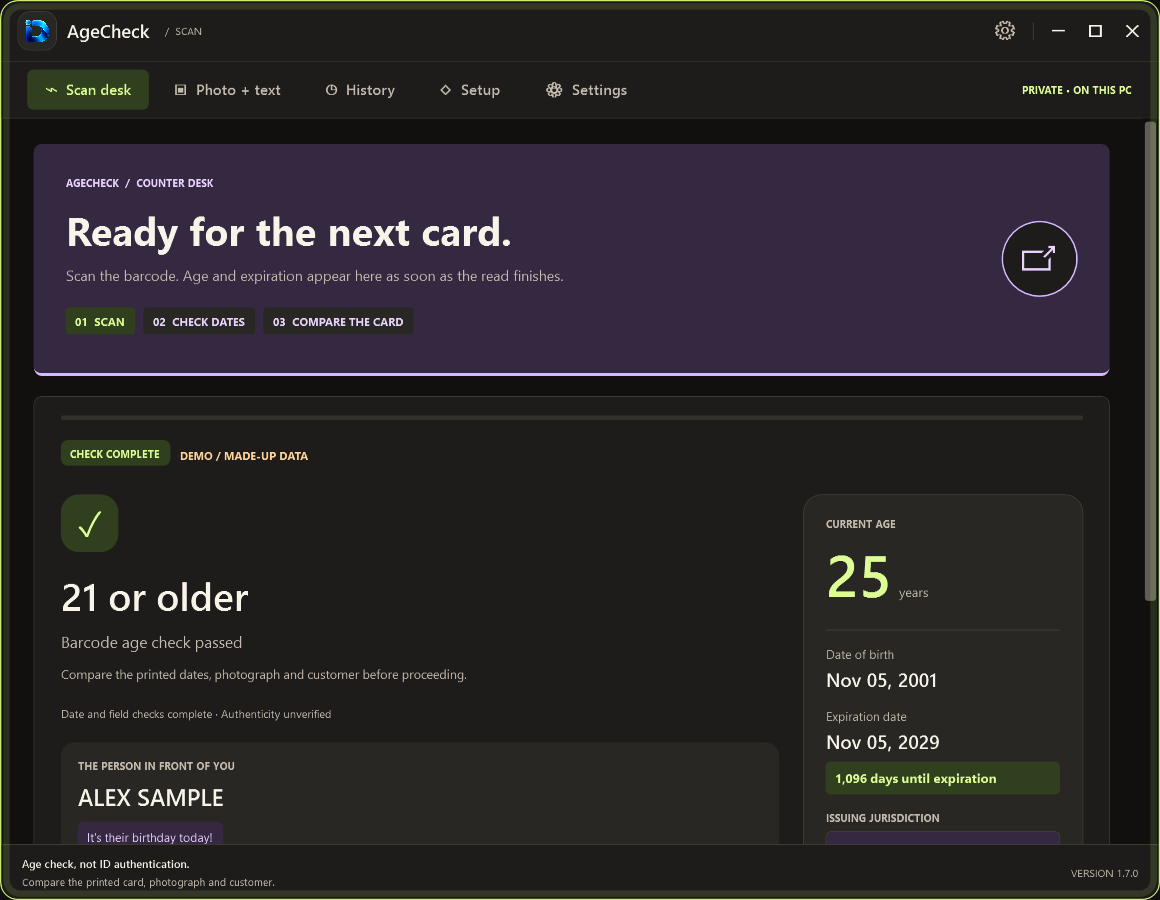
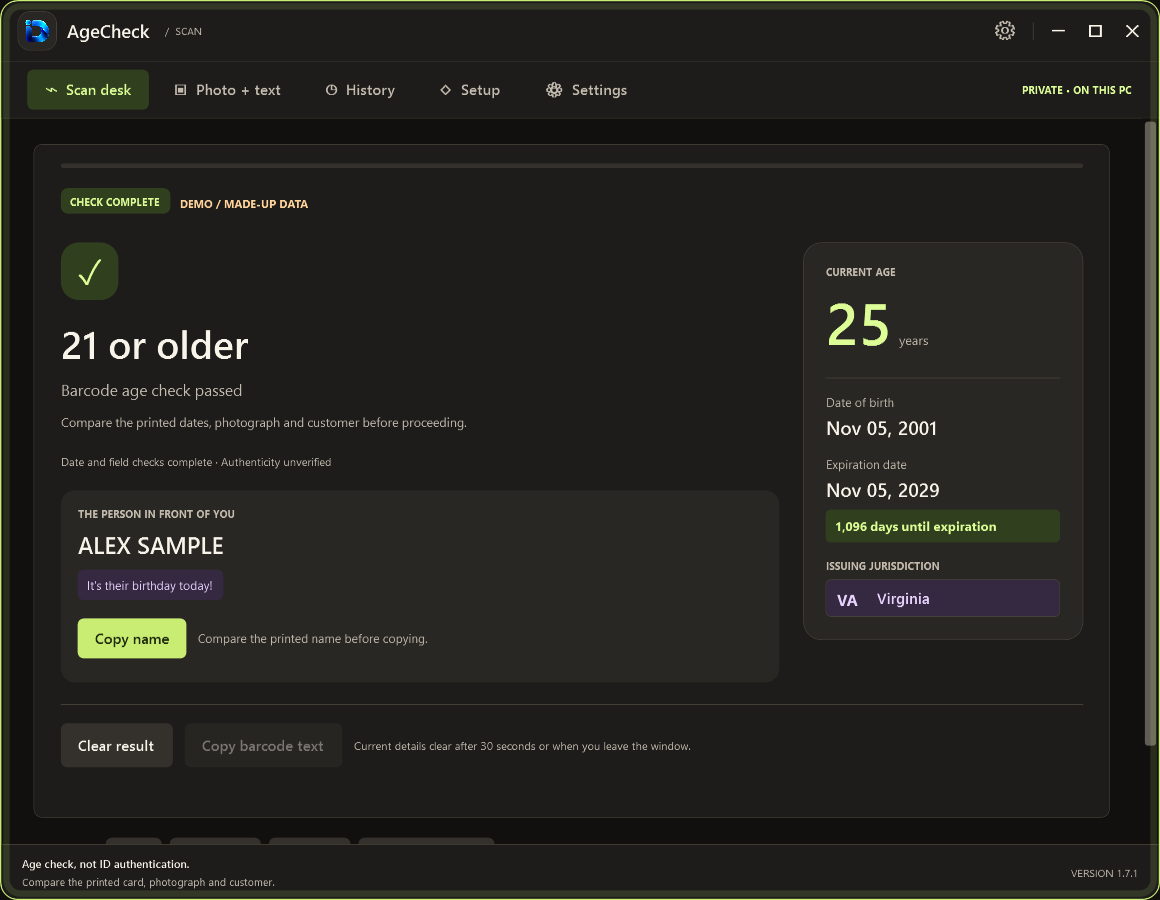
Restore scan focus after Home and add directional tabs

diff --git a/src/AgeCheck/MainWindow.xaml b/src/AgeCheck/MainWindow.xaml
@@ -30,7 +30,6 @@
     <Border x:Name="TopNavigation" Grid.Row="0" Grid.ColumnSpan="2" Background="{DynamicResource Surface}" BorderBrush="{DynamicResource Line}" BorderThickness="0,0,0,1" Padding="26,8"><DockPanel LastChildFill="False"><StackPanel Orientation="Horizontal" DockPanel.Dock="Left"><Button x:Name="TopScan" Click="ScanPage_Click" Content="⌁  Scan desk" Margin="0,0,8,0" Padding="18,10"/><Button x:Name="TopImage" Click="ImagePage_Click" Content="▣  Photo + text" Margin="0,0,8,0" Padding="18,10"/><Button x:Name="TopHistory" Click="HistoryPage_Click" Content="◷  History" Margin="0,0,8,0" Padding="18,10"/><Button x:Name="TopSetup" Click="SetupPage_Click" Content="◇  Setup" Margin="0,0,8,0" Padding="18,10"/><Button x:Name="TopSettings" Click="SettingsPage_Click" Content="⚙  Settings" Padding="18,10"/></StackPanel><TextBlock Text="PRIVATE • ON THIS PC" FontSize="10" FontWeight="Bold" Foreground="{DynamicResource AccentText}" VerticalAlignment="Center" HorizontalAlignment="Right" DockPanel.Dock="Right"/></DockPanel></Border>
     <ScrollViewer x:Name="PageScroll" Grid.Row="1" Grid.ColumnSpan="2" VerticalScrollBarVisibility="Auto" HorizontalScrollBarVisibility="Disabled" CanContentScroll="False"><Grid x:Name="PageHost" Margin="32,26" MaxWidth="1120" HorizontalAlignment="Stretch">
      <StackPanel x:Name="ScanPage">
-      <Border x:Name="ScanHero" Background="{DynamicResource BrandSoft}" CornerRadius="8" BorderBrush="{DynamicResource Brand}" BorderThickness="0,0,0,3" Padding="32" Margin="0,0,0,20"><Grid><Grid.ColumnDefinitions><ColumnDefinition Width="*"/><ColumnDefinition Width="Auto"/></Grid.ColumnDefinitions><StackPanel><TextBlock Text="AGECHECK  /  COUNTER DESK" FontSize="10" FontWeight="Bold" Foreground="{DynamicResource BrandText}"/><TextBlock Text="Ready for the next card." FontSize="39" FontWeight="Bold" Margin="0,14,0,8"/><TextBlock Text="Scan the barcode. Age and expiration appear here as soon as the read finishes." Style="{StaticResource Caption}" FontSize="14"/><WrapPanel Margin="0,22,0,0"><Border Background="{DynamicResource AccentSoft}" CornerRadius="4" Padding="10,6" Margin="0,0,8,6"><TextBlock Text="01  SCAN" Foreground="{DynamicResource AccentText}" FontWeight="Bold" FontSize="11"/></Border><Border Background="{DynamicResource Inset}" CornerRadius="4" Padding="10,6" Margin="0,0,8,6"><TextBlock Text="02  CHECK DATES" Foreground="{DynamicResource BrandText}" FontWeight="Bold" FontSize="11"/></Border><Border Background="{DynamicResource Inset}" CornerRadius="4" Padding="10,6" Margin="0,0,0,6"><TextBlock Text="03  COMPARE THE CARD" Foreground="{DynamicResource BrandText}" FontWeight="Bold" FontSize="11"/></Border></WrapPanel></StackPanel><Border Grid.Column="1" Width="76" Height="76" CornerRadius="38" Background="{DynamicResource Surface}" BorderBrush="{DynamicResource Brand}" BorderThickness="2" Margin="18,0,0,0" VerticalAlignment="Center"><TextBlock Text="&#xE8A7;" FontFamily="Segoe MDL2 Assets" FontSize="35" Foreground="{DynamicResource BrandText}" HorizontalAlignment="Center" VerticalAlignment="Center"/></Border></Grid></Border>
       <Border x:Name="ResultCard" Style="{StaticResource Card}"><StackPanel>
        <Grid Height="5" Margin="0,-8,0,20" ClipToBounds="True"><Border Background="{DynamicResource Quiet}" CornerRadius="3"/><Border x:Name="ScanBeam" Width="150" Background="{DynamicResource Accent}" HorizontalAlignment="Left" CornerRadius="3" Visibility="Collapsed"/></Grid>
        <WrapPanel Margin="0,0,0,24"><Border Background="{DynamicResource AccentSoft}" CornerRadius="7" Padding="10,6" Margin="0,0,10,5"><TextBlock x:Name="Phase" Text="READY TO SCAN" Foreground="{DynamicResource AccentText}" FontSize="10" FontWeight="Bold"/></Border><TextBlock x:Name="DemoBadge" Text="DEMO / MADE-UP DATA" Foreground="{DynamicResource WarmInk}" FontWeight="Bold" FontSize="11" Visibility="Collapsed" VerticalAlignment="Center"/></WrapPanel>

diff --git a/src/AgeCheck/MainWindow.xaml.cs b/src/AgeCheck/MainWindow.xaml.cs
@@ -113,7 +113,7 @@ public partial class MainWindow : Window
             if (args.Contains("--image-test")) { await ImageSelfTest(); return; }
             if (args.Contains("--screenshot")) { suppressAnimations = true; await ExportScreenshots(); return; }
             if (args.Contains("--motion-test")) { await MotionTest(); return; }
-            Animate(PageHost, true); Animate(BrandMark, true); Animate(ScanHero, true);
+            Animate(PageHost, true); Animate(BrandMark, true); Animate(ResultCard, true);
             if (StartupChecks.IsChecked == true) await CheckUpdates();
         };
     }
@@ -247,24 +247,24 @@ public partial class MainWindow : Window
         UpdateStateBadge(result.IssuingState);
         Animate(ResultCard); privacy.Stop(); privacy.Start();
     }
-    private void Animate(UIElement element, bool opening = false)
+    private void Animate(UIElement element, bool opening = false, int pageDirection = 0)
     {
         element.BeginAnimation(OpacityProperty, null);
         StopTransform(element.RenderTransform);
         element.Opacity = 1;
         element.RenderTransform = Transform.Identity;
         if (suppressAnimations || !motionEnabled || !SystemParameters.ClientAreaAnimation) return;
-        var duration = TimeSpan.FromMilliseconds(opening ? 520 : 340);
+        var duration = TimeSpan.FromMilliseconds(opening ? 520 : pageDirection == 0 ? 340 : 280);
         var easing = new QuarticEase { EasingMode = EasingMode.EaseOut };
         var move = new TranslateTransform(); var scale = new ScaleTransform(1,1);
         var transforms = new TransformGroup(); transforms.Children.Add(scale); transforms.Children.Add(move);
         element.RenderTransformOrigin = new Point(.5,.4); element.RenderTransform=transforms;
         DoubleAnimation Tween(double from,double to)=>new(from,to,duration){EasingFunction=easing,FillBehavior=FillBehavior.Stop};
         element.BeginAnimation(OpacityProperty,Tween(opening?0:.15,1));
-        move.BeginAnimation(TranslateTransform.XProperty,Tween(opening?0:20,0));
-        move.BeginAnimation(TranslateTransform.YProperty,Tween(opening?20:5,0));
-        scale.BeginAnimation(ScaleTransform.ScaleXProperty,Tween(opening ? .975 : .985,1));
-        scale.BeginAnimation(ScaleTransform.ScaleYProperty,Tween(opening ? .975 : .985,1));
+        move.BeginAnimation(TranslateTransform.XProperty,Tween(pageDirection == 0 ? (opening ? 0 : 20) : pageDirection * 48,0));
+        move.BeginAnimation(TranslateTransform.YProperty,Tween(pageDirection == 0 ? (opening ? 20 : 5) : 0,0));
+        scale.BeginAnimation(ScaleTransform.ScaleXProperty,Tween(pageDirection == 0 ? (opening ? .975 : .985) : 1,1));
+        scale.BeginAnimation(ScaleTransform.ScaleYProperty,Tween(pageDirection == 0 ? (opening ? .975 : .985) : 1,1));
     }
     private static void StopTransform(Transform transform)
     {
@@ -275,15 +275,26 @@ public partial class MainWindow : Window
     private void Page(UIElement page)
     {
         if (page == UpdatesPage) page = SettingsPage;
+        int previousIndex = PageIndex(activePage);
+        int nextIndex = PageIndex(page);
         CloseDrawer();
         Clear(); ScanPage.Visibility = ImagePage.Visibility = SetupPage.Visibility = SettingsPage.Visibility = HistoryPage.Visibility = Visibility.Collapsed;
         if (page != ImagePage) BarcodeTextInput.Clear();
         activePage = page;
-        page.Visibility = Visibility.Visible; Animate(page);
+        page.Visibility = Visibility.Visible; Animate(page, pageDirection: Math.Sign(nextIndex - previousIndex));
         if (page == HistoryPage) RefreshCustomers();
         PaintNavigation();
         PageScroll.ScrollToTop();
+        // Navigation buttons, especially the title-bar Home button, can retain
+        // keyboard focus and intercept the next scanner's first characters.
+        if (page == ScanPage)
+        {
+            FocusManager.SetFocusedElement(this, this);
+            Keyboard.Focus(this);
+            Dispatcher.BeginInvoke(() => Keyboard.Focus(this), DispatcherPriority.Input);
+        }
     }
+    private int PageIndex(UIElement? page) => page == ImagePage ? 1 : page == HistoryPage ? 2 : page == SetupPage ? 3 : page == SettingsPage || page == UpdatesPage ? 4 : 0;
     private void ScanPage_Click(object sender, RoutedEventArgs e) => Page(ScanPage);
     private void ImagePage_Click(object sender, RoutedEventArgs e) => Page(ImagePage);
     private void SetupPage_Click(object sender, RoutedEventArgs e) => Page(SetupPage);
@@ -331,7 +342,6 @@ public partial class MainWindow : Window
         DatesPanel.Margin = compact ? new Thickness(0, 20, 0, 0) : new Thickness(0);
         ResultSummary.Margin = compact ? new Thickness(0) : new Thickness(0, 0, 24, 0);
         Headline.FontSize = width < 600 ? 28 : 38;
-        ScanHero.Padding = new Thickness(width < 600 ? 19 : 32);
         LocalBadge.Visibility = width < 650 ? Visibility.Collapsed : Visibility.Visible;
     }
     private void StartupChecks_Click(object sender, RoutedEventArgs e)

diff --git a/src/AgeCheck/MainWindow.Verification.cs b/src/AgeCheck/MainWindow.Verification.cs
@@ -71,7 +71,15 @@ public partial class MainWindow
         Page(SettingsPage);
         var blocked = new TextCompositionEventArgs(Keyboard.PrimaryDevice,new TextComposition(InputManager.Current,this,sample)) { RoutedEvent=TextCompositionManager.PreviewTextInputEvent };
         RaiseEvent(blocked); Check(!scan.Receiving,"Scanner capture disabled outside Scan page");
-        Page(ScanPage);
+        HomeButton.Focus();
+        HomeButton.RaiseEvent(new RoutedEventArgs(System.Windows.Controls.Primitives.ButtonBase.ClickEvent));
+        await System.Windows.Threading.Dispatcher.Yield(System.Windows.Threading.DispatcherPriority.Input);
+        Check(ScanPage.IsVisible && Keyboard.FocusedElement == this, "Home button returns keyboard focus to the scan window");
+        var firstChunk = new TextCompositionEventArgs(Keyboard.PrimaryDevice,
+            new TextComposition(InputManager.Current,this,sample[..40])) { RoutedEvent=TextCompositionManager.PreviewTextInputEvent };
+        RaiseEvent(firstChunk);
+        Check(firstChunk.Handled && scan.Receiving, "Scanner input is captured immediately after Home");
+        Clear();
         await VerifyScannerTransport(checks);
         await VerifyCompleteKeyboardCapture(checks);
     }
@@ -247,9 +255,12 @@ public partial class MainWindow
                 Check(PageHost.HasAnimatedProperties,"Opening reveal begins");
                 await Task.Delay(700);
                 Check(AtRest(PageHost),"Opening reveal ends at full opacity and zero offset");
-                Page(SetupPage); Check(SetupPage.HasAnimatedProperties,"Page transition begins");
+                Page(SetupPage); await Task.Delay(40);
+                Check(SetupPage.HasAnimatedProperties && SetupPage.RenderTransform.Value.OffsetX > 0,"Moving right enters from the right");
                 await Task.Delay(500);
                 Check(AtRest(SetupPage),"Page transition ends at rest");
+                Page(ScanPage); await Task.Delay(40);
+                Check(ScanPage.RenderTransform.Value.OffsetX < 0,"Moving left enters from the left");
                 for(int i=0;i<12;i++) Page(i%2==0?ScanPage:SettingsPage);
                 await System.Windows.Threading.Dispatcher.Yield(System.Windows.Threading.DispatcherPriority.Render);
                 await Task.Delay(650);

diff --git a/src/AgeCheck/MainWindow.Polish.cs b/src/AgeCheck/MainWindow.Polish.cs
@@ -78,7 +78,7 @@ public partial class MainWindow
     private void UpdateStateBadge(string? state)
     {
         StateMonogram.Text = StateAbbreviation(state);
-        IssuingStateLabel.Text = state ?? "Unavailable in checked barcode";
+        IssuingStateLabel.Text = state ?? (visibleResult is null ? "Awaiting scan" : "Unavailable");
         IssuingStateLabel.ToolTip = state is null ? "Issuer code was not recognized" : "Issuer identified from the barcode header: " + state;
         IssuingStateLabel.FontFamily = new FontFamily(state is "New Hampshire" or "Florida" ? "Georgia" : "Segoe UI");
         IssuingStateLabel.FontStyle = state == "Florida" ? FontStyles.Italic : FontStyles.Normal;

diff --git a/README.md b/README.md
@@ -46,9 +46,9 @@ One thing I found interesting while building it: a scanner can send the informat
 | **Automatic clearing** | Clears results after 30 seconds, on the next scan, or when you leave the window. |
 | **Works offline** | No internet is needed to check a scan. |
 | **Built-in updates** | Check for updates, read what's new, download, and restart when you choose. |
-| **New desk design** | A top navigation bar on wide screens, a clear scan sequence, prominent result and expiration panels, and short hover and result animations. No effect runs constantly while idle. |
+| **Counter desk design** | A top navigation bar on wide screens, a compact scan page, prominent result and expiration panels, and short hover and result animations. No effect runs constantly while idle. |
 | **Four color themes** | Choose Midnight lime, Paper, Ocean, or Sand in Settings. Your choice stays on this PC. |
-| **Opening and page animations** | A short opening reveal and smooth page changes, with a setting to turn them off. |
+| **Opening and page animations** | A short opening reveal and directional left/right page changes, with a setting to turn them off. |
 | **Flexible layout** | Adjusts to small windows, laptops, large monitors, and Windows display scaling. Scroll to reach extra content on small screens. |
 | **Color-changing edges** | Green for 21+, red for under 21 or expired, and orange for manual review. Text explains each result too. |
 | **Navigation** | Use the top navigation on wide screens or open the menu with ☰ on smaller windows. Settings are behind the gear at the top right. |

diff --git a/RELEASE_NOTES.md b/RELEASE_NOTES.md
@@ -1,9 +1,8 @@
-# AgeCheck 1.7.0 - A new counter desk
+# AgeCheck 1.7.1 - Faster return to scanning
 
-- Rebuilt the interface around a top navigation bar, a clearer scan sequence, and a more prominent age and expiration panel. Smaller windows use the menu.
-- Added four saved color themes in Settings: Midnight lime, Paper, Ocean, and Sand.
-- Added a short pulse while a barcode is received and checked. Motion remains optional and stops when the result appears.
-- Highlighted the calendar days left before expiration or the days since expiration on completed checks.
-- Removed the costly per-button blur effect and adjusted narrow-window headings to avoid clipping.
+- Returning to Scan from Home or another tab now moves keyboard focus off the navigation button, so the next scanner input can start immediately.
+- Removed the large banner above the scan result to bring the card check higher on screen.
+- Page changes now slide from the left or right according to the tab direction. The existing motion setting still disables these transitions.
+- Shortened the issuing-state placeholder while waiting for a scan.
 
 AgeCheck calculates age and expiration from barcode fields. It does not authenticate the physical ID or replace a comparison of the card, photograph and customer.

diff --git a/docs/VALIDATION.md b/docs/VALIDATION.md
@@ -1,5 +1,11 @@
 # Validation record
 
+## Version 1.7.1 scan focus and navigation (November 5, 2026)
+
+- Added a WPF regression check that focuses the Home button, clicks it, and sends scanner text immediately. The Scan page receives that first input without an extra click.
+- Directional motion checks cover both left and right page moves, rest position, rapid tab changes, and the reduced-motion setting.
+- The scan banner was removed; wide and narrow layout checks pass. Screenshots use synthetic demo data.
+
 ## Version 1.7.0 counter redesign (November 5, 2026)
 
 - Release build and full packaging succeeded with zero build warnings or errors; all 201 core tests passed and the editor probe generated all 133 named controls.
